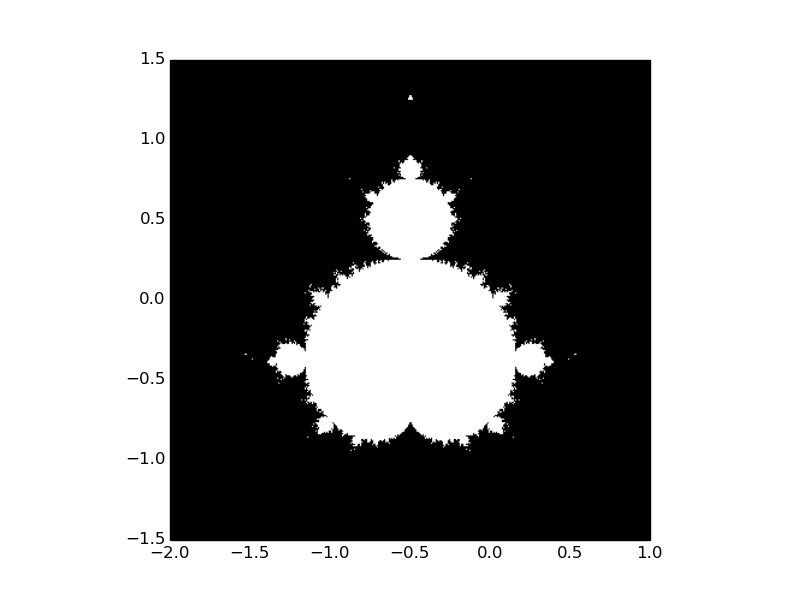
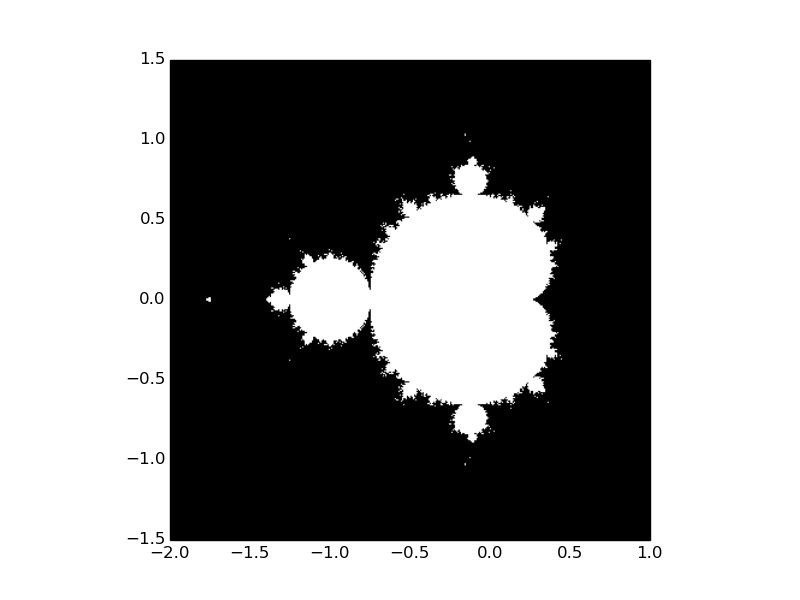
new commit

Changed region(s): [[0.3125, 0.24, 0.7188, 0.75]]

diff --git a/ky822/Answers/Question4.py b/ky822/Answers/Question4.py
@@ -16,7 +16,7 @@ def Question4():
     grid_number = 400
     x = np.linspace(-2,1,grid_number)
     y = np.linspace(-1.5,1.5,grid_number)
-    c = x[newaxis,:] + 1j*y[:,newaxis]
+    c = x[:,np.newaxis] + 1j*y[np.newaxis,:]
     
     # b. Do the iteration
     N_max = 50
